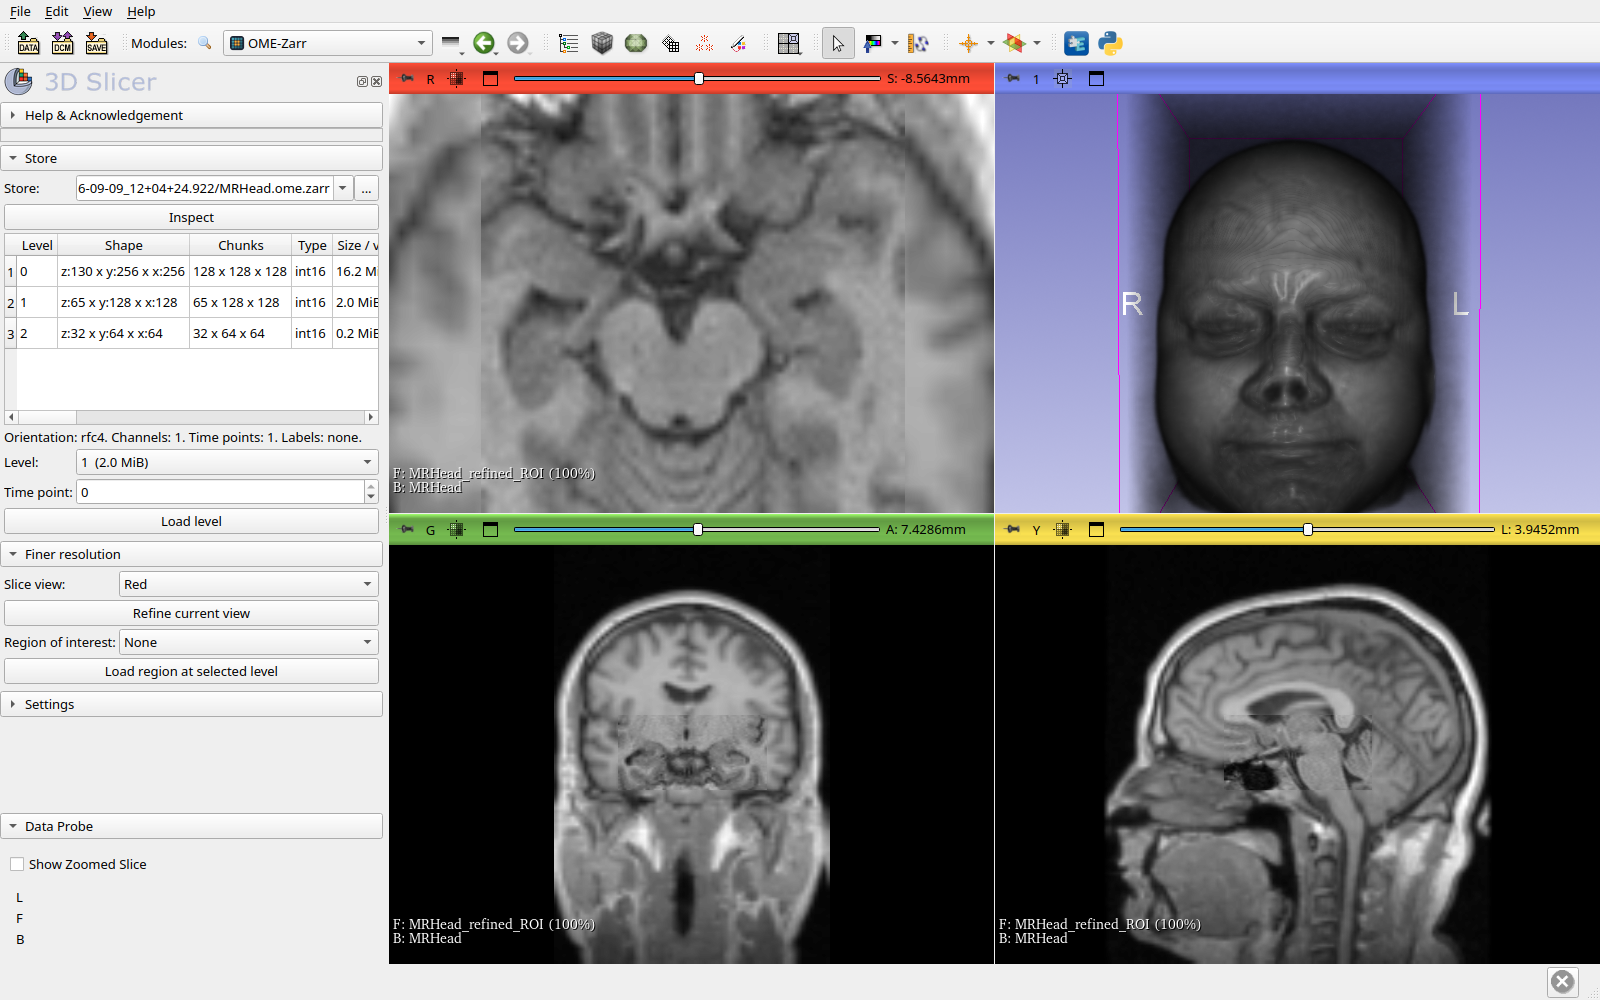
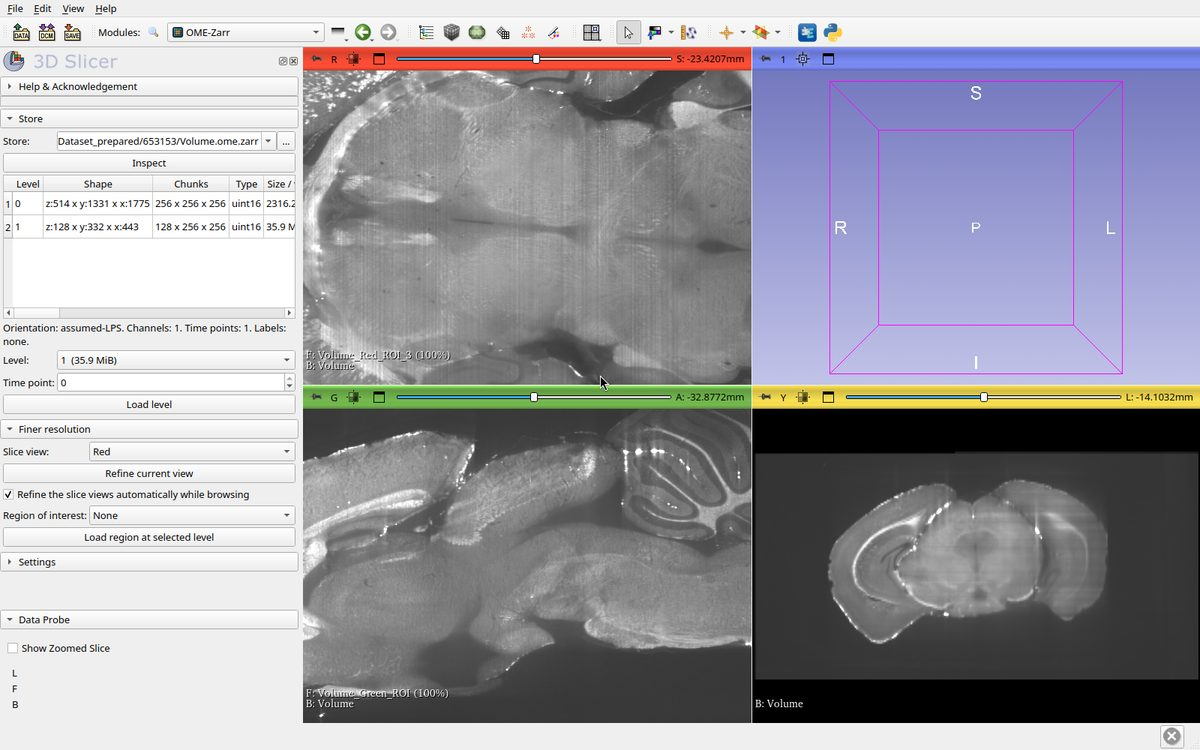
docs: walkthrough on an ExaSPIM mouse brain, screenshots from the real data

diff --git a/TUTORIAL.md b/TUTORIAL.md
@@ -1,0 +1,66 @@
+# Walkthrough
+
+Recorded on an ExaSPIM mouse brain (`Volume.ome.zarr`, OME-Zarr 0.4,
+1775 × 1331 × 514 voxels at 30.08 × 30.08 × 40 µm, two levels: 2316 MiB and
+36 MiB, chunks 256³). The memory budget was set to 512 MiB so that the
+coarse level loads first.
+
+1. **Install** the extension. The OME-Zarr module appears under Informatics;
+   `ngff-zarr` is installed into Slicer's Python on first use.
+
+2. **Drop** the `.ome.zarr` directory onto the Slicer window and pick
+   "Load OME-Zarr image". `File → Add Data` also works with the store's
+   `zarr.json` or `.zattrs`.
+
+   ![Reader chooser](Screenshots/tutorial/02-choose-reader.jpg)
+
+3. **Overview.** The finest level that fits the budget loads, here level 1
+   in under a second. Spacing and origin come from the store, in mm. Without
+   RFC-4 orientation the axes are taken as LPS (or RAS, in the settings).
+
+   ![Coarse level loaded](Screenshots/tutorial/03-loaded.jpg)
+
+4. **Inspect** lists the levels, their shape, chunks, size and spacing.
+
+   ![Inspect](Screenshots/tutorial/04-inspect.jpg)
+
+5. **Refine.** Zoom a slice view and click "Refine current view": the block
+   the view shows is reloaded at the finest level that fits the budget,
+   reading only the chunks it needs, and overlaid with the coarse volume's
+   window/level. If nothing finer than the displayed level fits, refinement
+   is refused: zoom in or raise the budget.
+
+   ![Refined view](Screenshots/tutorial/05-refined.jpg)
+
+6. **Browse.** Tick "Refine automatically": each slice view keeps its own
+   block and reloads it once the view stops moving.
+
+   ![Automatic refinement](Screenshots/tutorial/06-auto-refine.jpg)
+
+7. **Masks and labels.** Dropping `Mask.ome.zarr`, a uint8 store with two
+   values and no `image-label` metadata, gives a label map. Stores with
+   `labels/` groups load with their colours and names, or as Segmentations.
+
+   ![Mask as label map](Screenshots/tutorial/07-mask.jpg)
+
+8. **Everything else** is ordinary Slicer: volume rendering, segmentation,
+   registration. `File → Save` with the "OME-Zarr image" format writes
+   volumes, label maps and segmentations back as multiscale stores. Remote
+   `https://` and `s3://` stores load the same way; public S3 buckets are
+   read anonymously.
+
+   ![Volume rendering](Screenshots/tutorial/08-volume-rendering.jpg)
+
+9. **Settings**: memory budget, assumed orientation, labels, time axis,
+   display units, label map detection, remote storage options, auto-refine.
+
+   ![Settings](Screenshots/tutorial/09-settings.jpg)
+
+From Python:
+
+```python
+slicer.util.loadNodeFromFile("/data/653153/Volume.ome.zarr", "OMEZarr", {"level": 1})
+from OMEZarr import OMEZarrLogic
+OMEZarrLogic.refineView("/data/653153/Volume.ome.zarr", "Red")
+OMEZarrLogic.startAutoRefine("/data/653153/Volume.ome.zarr")
+```

diff --git a/README.md b/README.md
@@ -9,6 +9,8 @@ OME-Zarr dataset to NIfTI just to look at it. This extension removes that step.
 
 ![Screenshot](Screenshots/main.png)
 
+Step by step with screenshots: [TUTORIAL.md](TUTORIAL.md).
+
 ## Usage
 
 * Drag an `.ome.zarr` directory onto the Slicer window and pick
